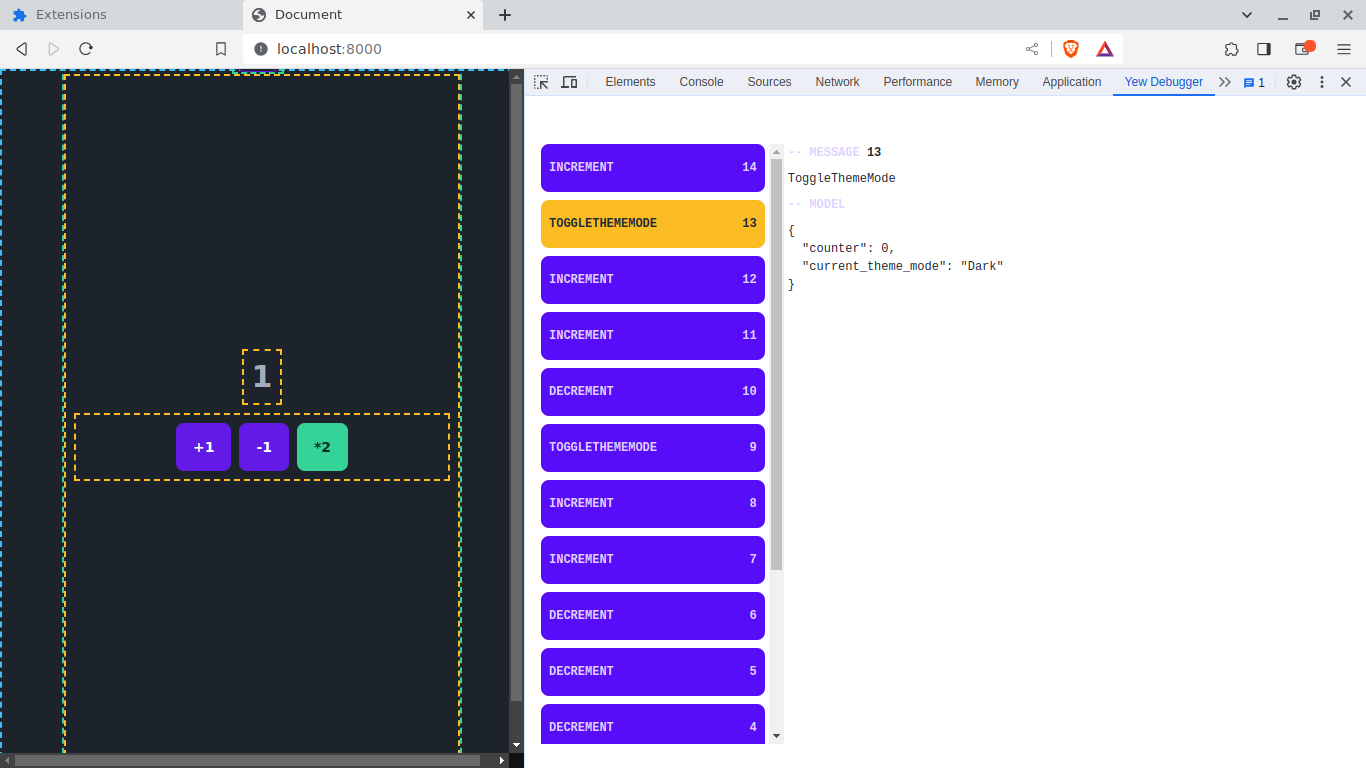
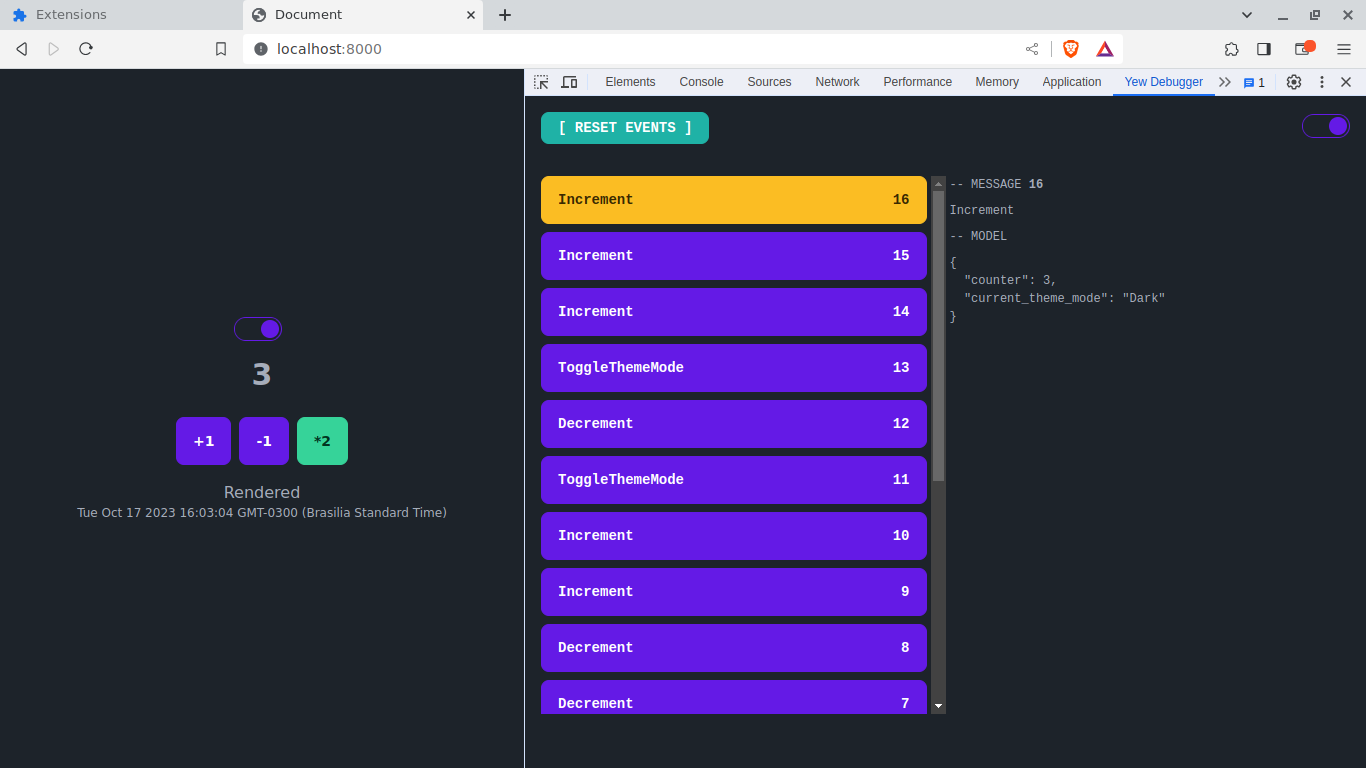
feat: implement reload application after reset events

diff --git a/background.js b/background.js
@@ -1,6 +1,7 @@
 import init, { print, print_with_value, yew_debugger_panel, yew_debugger_collector } from './background/background.js';
 
 var EVENTS_COLLECTOR = []
+var CURRENT_TAB = null
 
 chrome.runtime.onInstalled.addListener(() => {
   runDemo();
@@ -21,6 +22,7 @@ chrome.runtime.onMessage.addListener(
     // console.log(sender.tab ?
     //   "from a content script:" + sender.tab.url :
     //   "from the extension");
+
 
     const api = message["api"] || null;
 
@@ -82,7 +84,16 @@ async function handleMessageFromPanel(sender, message, sendResponse) {
           isOk: true,
           data: EVENTS_COLLECTOR
         });
+        break;
 
+      case "ReloadApplication":
+        chrome.tabs.query({ active: true, currentWindow: true }, function (arrayOfTabs) {
+          chrome.tabs.reload(arrayOfTabs[0].id);
+        });
+        sendResponse({
+          isOk: true,
+          data: EVENTS_COLLECTOR
+        });
         break;
 
       default:
@@ -90,7 +101,6 @@ async function handleMessageFromPanel(sender, message, sendResponse) {
           isOk: false,
           error: null
         });
-        break;
     }
   }
 }

diff --git a/panel/wasm/src/lib.rs b/panel/wasm/src/lib.rs
@@ -30,7 +30,8 @@ pub enum Msg {
     Nil,
     GetEvents,
     ResetEvents,
-    UpdateDebuggerInView(MessageOutcome),
+    ReloadApplication,
+    RenderEvents(MessageOutcome),
     ChangeEventCotentOnClick(Event),
     ToggleThemeMode,
 }
@@ -183,17 +184,17 @@ impl Component for App {
 
                 let closure =
                     Closure::wrap(Box::new(move |message: JsValue, _: JsValue, _: JsValue| {
-                        log!("Closure::GetEvents");
+                        // log!("Closure::GetEvents");
 
                         match serde_wasm_bindgen::from_value::<MessageOutcome>(message) {
                             Ok(envelope) => {
-                                log!("&envelope");
-                                log!(format!("{:?}", &envelope));
-                                ctx_clone.send_message(Msg::UpdateDebuggerInView(envelope));
+                                // log!("&envelope");
+                                // log!(format!("{:?}", &envelope));
+                                ctx_clone.send_message(Msg::RenderEvents(envelope));
                             }
                             Err(error) => {
-                                log!("ERROR");
-                                log!(error.to_string());
+                                // log!("ERROR");
+                                // log!(error.to_string());
                             }
                         };
                     })
@@ -224,18 +225,17 @@ impl Component for App {
                 // TODO: Implement error handler
                 let js_value = JsValue::from_serde(&message).unwrap_or_default();
 
-                let ctx_clone = ctx.link().clone();
+                let cloned_ctx = ctx.link().clone();
 
                 let closure =
                     Closure::wrap(Box::new(move |message: JsValue, _: JsValue, _: JsValue| {
                         log!("Closure::ResetEvents");
 
-                        //? [JADSN] ctx_clone.send_message(Msg::UpdateDebuggerInView(Default::default()));
                         match serde_wasm_bindgen::from_value::<MessageOutcome>(message) {
                             Ok(envelope) => {
                                 log!("&envelope");
                                 log!(format!("{:?}", &envelope));
-                                ctx_clone.send_message(Msg::UpdateDebuggerInView(envelope));
+                                cloned_ctx.send_message(Msg::RenderEvents(envelope));
                             }
                             Err(error) => {
                                 log!("ERROR");
@@ -253,17 +253,54 @@ impl Component for App {
 
                 self.set_current_event(None);
 
+                ctx.link().send_message(Msg::ReloadApplication);
+
                 true
             }
 
             Msg::Nil => false,
 
-            Msg::UpdateDebuggerInView(input_inner) => {
-                self.model = Model {
-                    message_outcome: input_inner,
-                };
-
+            Msg::RenderEvents(message_outcome) => {
+                self.model = Model { message_outcome };
                 true
+            }
+            Msg::ReloadApplication => {
+                let command = json!(
+                    {
+                        "name": "ReloadApplication",
+                        "data": null
+                    }
+                );
+                let message = json!(
+                    {
+                        "command": command,
+                        "api": "yew-debugger-panel",
+                    }
+                );
+                let js_value = JsValue::from_serde(&message).unwrap_or_default();
+
+                let ctx_clone = ctx.link().clone();
+
+                let closure =
+                    Closure::wrap(Box::new(move |message: JsValue, _: JsValue, _: JsValue| {
+                        log!("Closure::ReloadApplication");
+
+                        match serde_wasm_bindgen::from_value::<MessageOutcome>(message) {
+                            Ok(envelope) => {
+                                log!("&envelope");
+                                log!(format!("{:?}", &envelope));
+                                ctx_clone.send_message(Msg::RenderEvents(envelope));
+                            }
+                            Err(error) => {
+                                log!("ERROR");
+                                log!(error.to_string());
+                            }
+                        };
+                    })
+                        as Box<dyn FnMut(JsValue, JsValue, JsValue)>);
+
+                sendMessage(js_value, &closure.as_ref().unchecked_ref());
+                false
             }
             Msg::ChangeEventCotentOnClick(input_inner) => {
                 self.set_current_event(Some(input_inner));
@@ -391,14 +428,14 @@ impl Component for App {
                             // TODO: FIX - [JADSN]: Height base on user height size
                             <div class="flex flex-col flex-grow pl-1 overflow-y-auto h-[600px]">
                                <div class="flex flex-col">
-                                    <pre class="text-primary-content uppercase font-mono font-bold">
+                                    <pre class="text-primary-content uppercase">
                                         <span class="text-base-content">{"-- Message "}</span>
                                         if self.current_event().is_some() {
                                             {
                                                 self
                                                     .current_event()
                                                     .map(|cur_event|
-                                                        html!(<span class="text-base-content">{cur_event.metadata().msg_id()}</span>)
+                                                        html!(<span class="text-base-content font-mono font-bold">{cur_event.metadata().msg_id()}</span>)
                                                     )
                                             }
                                         }
@@ -408,7 +445,7 @@ impl Component for App {
                                     </pre>
                                 </div>
                                 <div class="flex flex-col">
-                                    <pre class="text-base-content uppercase font-mono font-bold"><code>{"-- Model"}</code></pre>
+                                    <pre class="text-base-content uppercase"><code>{"-- Model"}</code></pre>
                                     if self.current_event().is_some() {
                                         <pre class="text-base-content pt-2 font-mono">
                                             {
